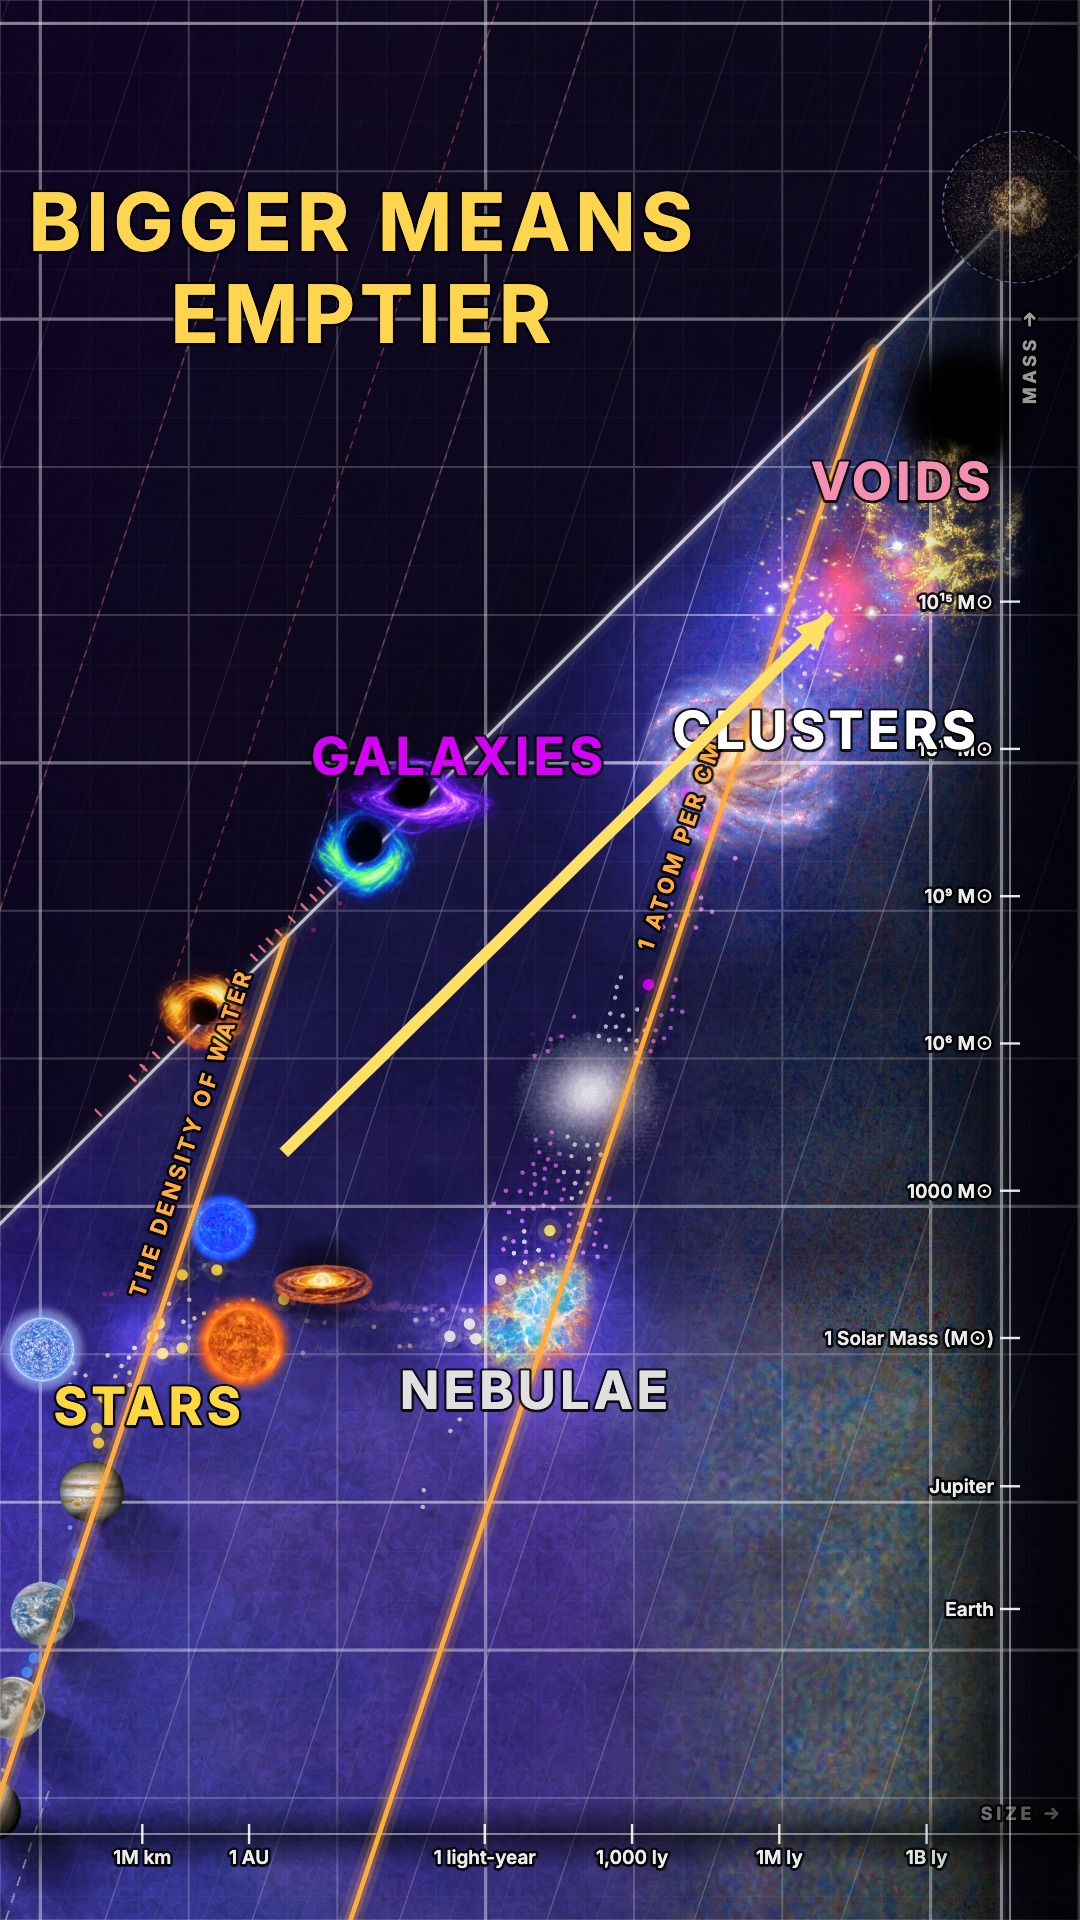
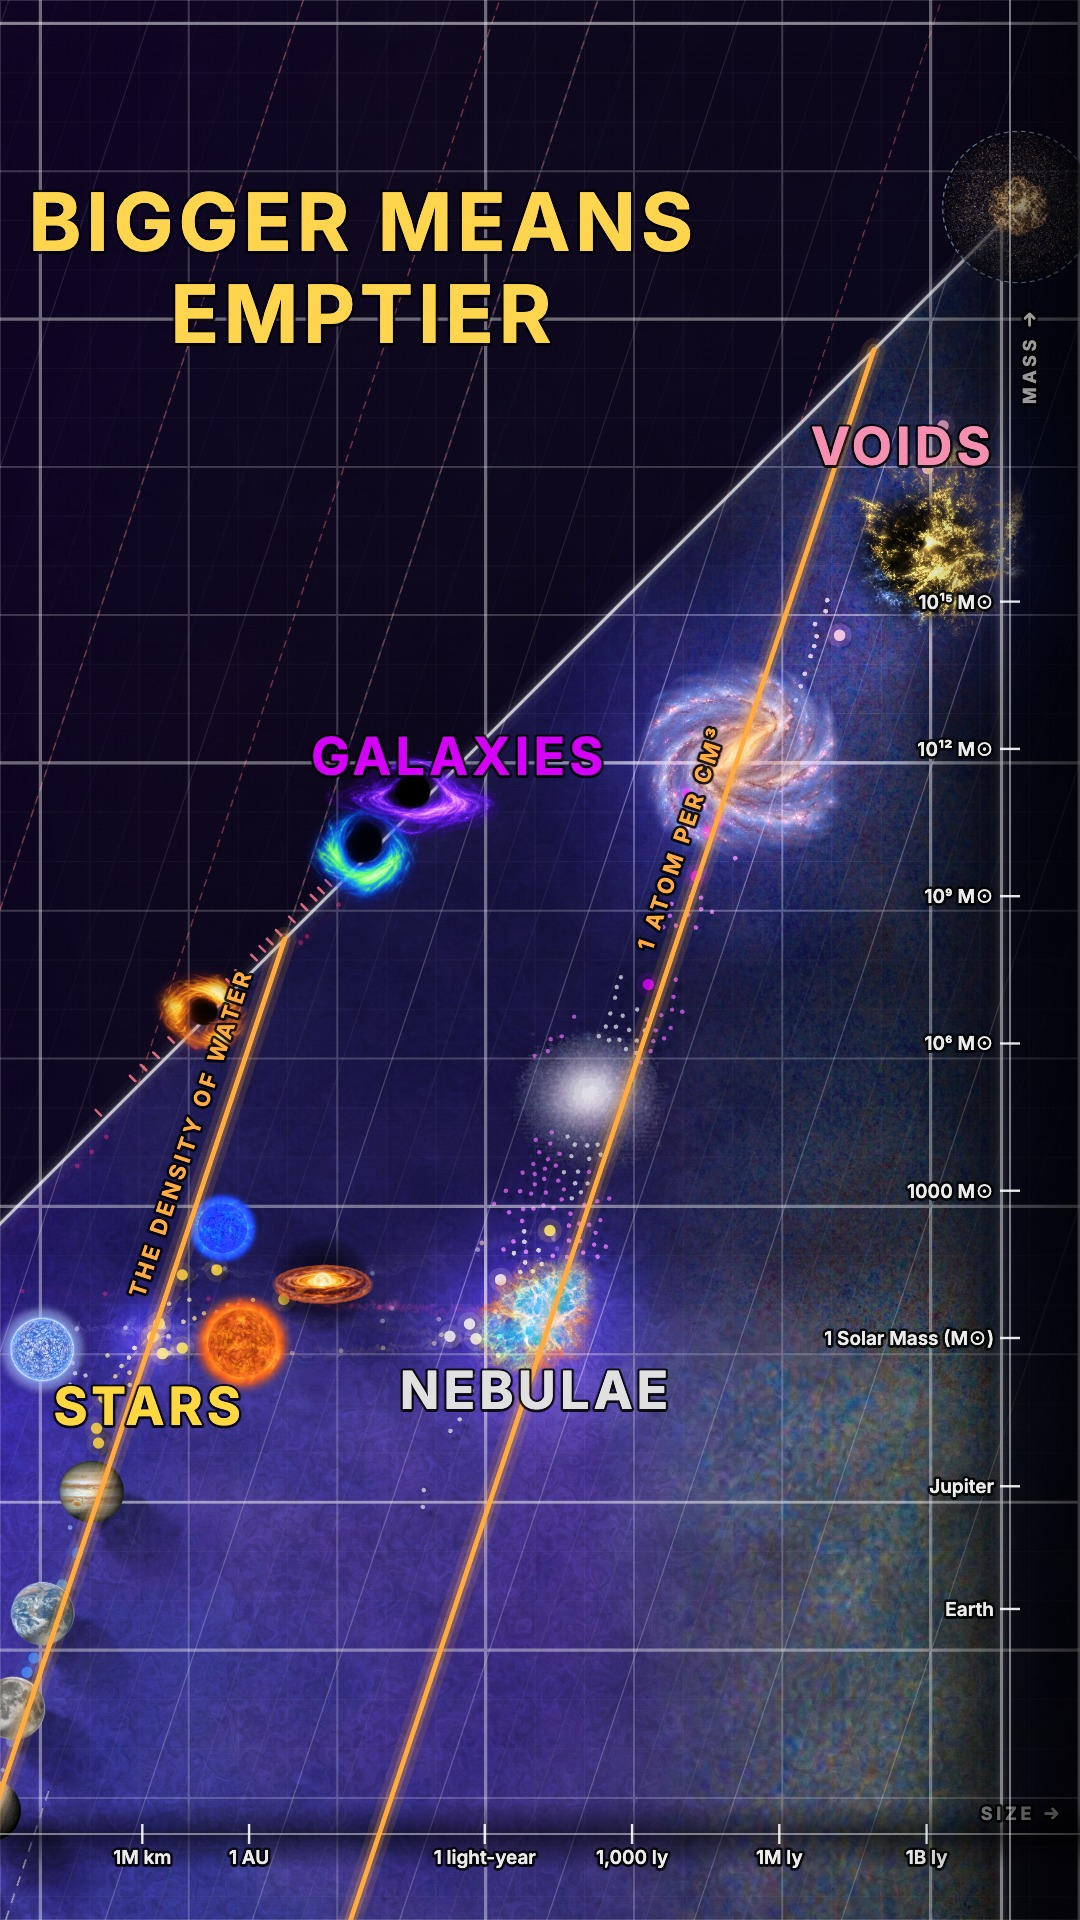
5a thumbnail: no arrow along the climb, no tag on the clusters (the author, 2026-11-11, 13:15)

diff --git a/src/narration-scenes/short-05a-emptier.js b/src/narration-scenes/short-05a-emptier.js
@@ -20,17 +20,16 @@ export default {
   // the galaxies and clusters 20% smaller (the author, 2026-11-09)
   iconBoost: { from: 19.5, k: 0.8 },
   // the YouTube thumbnail (scripts/narration-poster.mjs, 2026-11-11): the whole climb from the stars to the voids along
-  // the water line, each step tagged, and the title in the dark above the black-hole line
+  // the water line, each step tagged, and the title in the dark above the black-hole line (the author, 2026-11-11, 13:15:
+  // no arrow along it, no tag on the clusters)
   poster: { at: 3, cues: [{ t: 0, cam: { r: 18.8, m: 41, span: 22 }, dur: 0.1, drift: 0, hl: [
     { density: 0, label: "the density of water", instant: true },
     { density: -24, label: "1 atom per cm³", instant: true },
     NAMED("Sun", "stars", { place: "below", labelSize: 26, instant: true }),
     NAMED("Crab Nebula", "nebulae", { place: "below", labelSize: 26, instant: true }),
     NAMED("Milky Way", "galaxies", { place: "left", labelSize: 26, instant: true }),
-    NAMED("Bullet Cluster", "clusters", { place: "below", labelSize: 26, instant: true }),
     NAMED("Boötes Void", "voids", { place: "above", labelSize: 26, instant: true }),
     { text: "bigger means\nemptier", at: [15.2, 54.5], size: 40, color: "#ffd54f", instant: true },
-    { arrow: true, solid: true, width: 6, color: "#ffe066", from: { r: 13, m: 36.5 }, to: { r: 25.3, m: 48.6 }, draw: 0.01 },
   ] }] },
 
   cues: [
